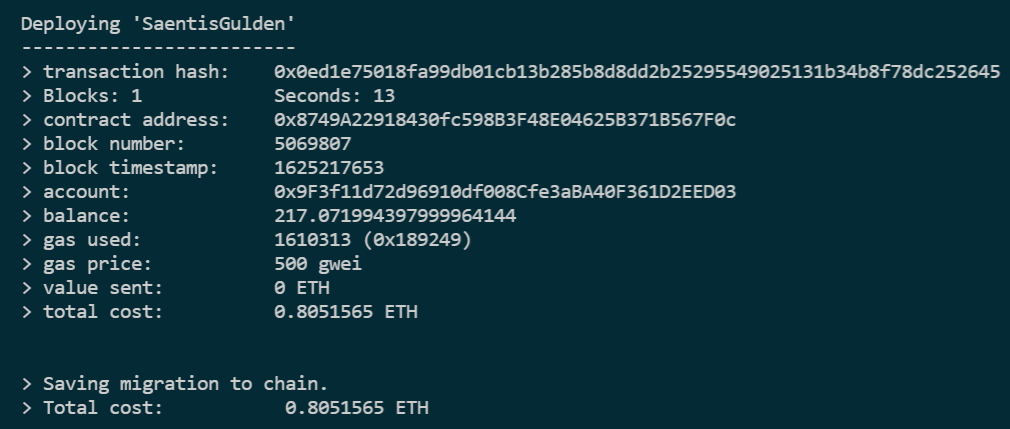
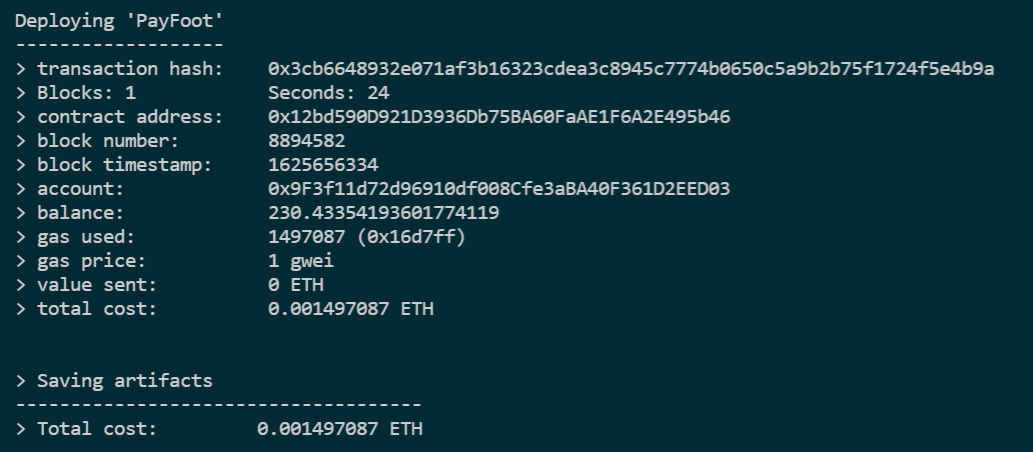
First testnet deployment done

Changed region(s): [[0.0, 0.0303, 1.0, 0.7576], [0.0, 0.8182, 0.4297, 0.9697]]

diff --git a/scripts/sign-data.js b/scripts/sign-data.js
@@ -6,7 +6,7 @@ let Web3 = require('web3'); // Add the web3 node package
 let ethUtil = require('ethereumjs-util'); // 'ethereumjs-util' is a collection of utility functions for Ethereum
 let sigUtil  = require('eth-sig-util'); // 'eth-sig-util' is a small collection of Ethereum signing functions
 const config = require('./data-config.json'); // Include the network-specific configurations
-const contractAbi = require('./ABI/SaentisGulden.json'); // Import the contract ABI of the smart contract
+const contractAbi = require('./ABI/PayFoot.json'); // Import the contract ABI of the smart contract
 const BigNumber = require('bignumber.js'); // Add the bignumber.js node package
 const { EIP712Domain } = require('./helper.js'); // Add some helpers
 

diff --git a/truffle-config.js b/truffle-config.js
@@ -35,6 +35,10 @@ module.exports = {
       provider: () => new HDWalletProvider({mnemonic: {phrase: seedPhrase}, providerOrUrl: `${config.swissdlt.url}/`}),
       network_id: config.swissdlt.network_id,
     },
+    payfoot: {
+      provider: () => new HDWalletProvider({mnemonic: {phrase: seedPhrase}, providerOrUrl: `${config.payfoot.url}`}),
+      network_id: config.payfoot.network_id,
+    },
   },
 
   // Configure our compilers

diff --git a/migrations/1_initial_migration.js b/migrations/1_initial_migration.js
@@ -1,4 +1,4 @@
-const Migrations = artifacts.require("Migrations");
+const Migrations = artifacts.require('Migrations');
 
 module.exports = function (deployer) {
   deployer.deploy(Migrations);

diff --git a/migrations/2_deploy_contracts.js b/migrations/2_deploy_contracts.js
@@ -1,0 +1,5 @@
+const PayFoot = artifacts.require('PayFoot');
+
+module.exports = function (deployer) {
+  deployer.deploy(PayFoot);
+};

diff --git a/CHANGELOG.md b/CHANGELOG.md
@@ -1,94 +1,6 @@
 # Changelog
 
-## 06-07-2021
+## 07-07-2021
 
 ### Added
-- Added [ESLint](https://eslint.org) to the project using [OpenZeppelin](https://github.com/OpenZeppelin/openzeppelin-contracts/blob/master/.eslintrc)'s configurations;
-- Added [Solhint](https://protofire.github.io/solhint) to the project using [OpenZeppelin](https://github.com/OpenZeppelin/openzeppelin-contracts/blob/master/.solhint.json)'s configurations;
-
-### Changed
-- The double quotation marks `""` in all JavaScript scripts have been changed to single quotation marks `''` for general consistency;
-
-## 02-07-2021
-
-### Added
-- Updated README with a section on unit tests;
-- Added `helper.js` file in the context of the refactoring of `sign-data.js`;
-- Unit tests for `ERC20Permit` are now available under `draft-ERC20Permit.test.js`. You can run the tests with `npx hardhat test`;
-- The following contracts have been deployed across all the major test networks:
-  - **Rinkeby:** [0x0f64069aC10c5Bcc3396b26C892A36D22CdCf5A6](https://rinkeby.etherscan.io/address/0x0f64069aC10c5Bcc3396b26C892A36D22CdCf5A6)
-  - **Ropsten:** [0x9b8D4cae1277a1FB56Af4C502A28B75C935f4ff3](https://ropsten.etherscan.io/address/0x9b8D4cae1277a1FB56Af4C502A28B75C935f4ff3)
-  - **Kovan:** [0x95Ae9Af89643a60DE620727CEd783FAF609832d6](https://kovan.etherscan.io/address/0x95Ae9Af89643a60DE620727CEd783FAF609832d6)
-  - **Goerli:** [0x8749A22918430fc598B3F48E04625B371B567F0c](https://goerli.etherscan.io/address/0x8749A22918430fc598B3F48E04625B371B567F0c)
-
-### Changed
-- Updated `package.json` file with version number `2.0.0` as well as included the hardhat dependencies;
-- Refactored `sign-data.js` file;
-
-### Fixed
-- Fixed wrong name and type problem for `version` in `data-config.json`;
-
-## 01-07-2021
-
-### Added
-- Updated README with information about the new `permit` method as well as implemented a new version structure with respect to the deployments;
-- Deployed Säntis Gulden contract `v2.0` to Rinkeby with the contract address [0x0f64069aC10c5Bcc3396b26C892A36D22CdCf5A6](https://rinkeby.etherscan.io/address/0x0f64069aC10c5Bcc3396b26C892A36D22CdCf5A6);
-- Added ABI version 2 (with `permit` functionality) as snippet [here](https://gitlab.appswithlove.net/saentis-gulden/saentis-gulden-token-contract/-/snippets/13);
-- Added `sign-data.js` file in order to generate the required function data used by the new `permit` method;
-
-### Changed
-- Updated Solidity compiler version in `truffle-config.js` to `0.8.6`;
-- Updated `package.json` file with URL reference to where to file a new issue;
-- Removed `SaentisGulden_flat.sol` file from repository;
-
-### Fixed
-- Fixed some formatting in the README;
-
-## 08-05-2021
-
-### Added
-The smart contract `SaentisGulden.sol` has been deployed to production with [Remix](http://remix.ethereum.org) and signed with the Säntis Gulden hardware wallet ([Ledger Nano S](https://shop.ledger.com/products/ledger-nano-s)):
-- [SwissDLT Block Explorer](https://swissdlt.appswithlove.net)
-- Contract creation transaction hash: [0x857f538e8476cebc7d5b22863c30494e713bf05cb09aac005d69fdff79e606cd](https://swissdlt.appswithlove.net/tx/0x857f538e8476cebc7d5b22863c30494e713bf05cb09aac005d69fdff79e606cd)
-- Contract address: [0x263dc7587abe19595f7d7db378ee7ac2a773cf69](https://swissdlt.appswithlove.net/address/0x263dc7587abe19595f7d7db378ee7ac2a773cf69)
-- Contract admin: [0x7de729bc151084c3f455dbc03e7842919565d23e](https://swissdlt.appswithlove.net/address/0x7de729bc151084c3f455dbc03e7842919565d23e)
-
-### Changed
-- Updated README with additional block explorer links to the contract address & contract admin address;
-- Updated `package-lock.json` file;
-
-## 30-04-2021
-
-### Changed
-- The contract symbol was changed from `SDG` to `SGD`;
-- Deployed the updated contract to the major test networks (Rinkeby, Ropsten, Kovan and Goerli). Due that I updated the README.md (paragraph Test Deployments) with the new contract addresses;
-- Corrected a typo in the README;
-
-## 25-04-2021
-
-### Added
-The following contracts have been deployed across all the major test networks:
-- **Rinkeby:** [0xc3F76Ab84f9493B6cd1f8E6E9d24C69F295395Ae](https://rinkeby.etherscan.io/address/0xc3f76ab84f9493b6cd1f8e6e9d24c69f295395ae)
-- **Ropsten:** [0x8327931af8ADF326cC1bD1cAb5720A8c9606990c](https://ropsten.etherscan.io/address/0x8327931af8adf326cc1bd1cab5720a8c9606990c)
-- **Kovan:** [0xA2869D16B6187DEB70DCfA1A2c6149ADa6D10d3C](https://kovan.etherscan.io/address/0xa2869d16b6187deb70dcfa1a2c6149ada6d10d3c)
-- **Goerli:** [0xeB741f8826a3B516C80cA3aD3A5Da3a56B972FA4](https://goerli.etherscan.io/address/0xeb741f8826a3b516c80ca3ad3a5da3a56b972fa4)
-
-Furthermore, the following additions have been implemented:
-- Added `1_initial_migration.js` file to the migrations folder;
-- Refactored the `truffle-config.js` file with a general dependency on the newly added file `network-config.json`, where all major test networks are defined as well as the Swiss DLT chain;
-
-### Changed
-- In the `package.json` I added a couple of new keywords as well as downgraded the `@truffle/hdwallet-provider` to version `1.2.3` due to a recent and still existing bug in the latest Truffle release (see [here](https://stackoverflow.com/questions/66735307/truffle-contract-deployment-failed-invalid-sender));
-- The smart contract `SaentisGulden.sol` does not anymore support the extension `ERC20Snapshot` since this is not required in our use case;
-- The smart contract `SaentisGulden.sol` does now include a `premint` functionality in the constructor that creates an initial amount of 100'000 tokens for the deployer (no need anymore to separately call `mint` after the deployment);
-- In addition to some small wording fixes, the README has been updated with the information regarding the test deployments;
-- Removed `package-lock.json` from `.gitignore` since npm itself recommends committing the `package-lock.json` file. See [here](https://docs.npmjs.com/cli/v7/configuring-npm/package-lock-json);
-
-### Fixed
-- Changed naming from `SantisGulden` to `SaentisGulden`;
-- `build` folder is now part of the `.gitignore`. I implemented the recommended OpenZeppelin `.gitignore` available [here](https://github.com/OpenZeppelin/openzeppelin-contracts/blob/master/.gitignore);
-
-## 23-04-2021
-
-### Added
-- Deployed Säntis Gulden contract `v1.0` to Rinkeby with the contract address [0x10c35227901F2D1D19067E7c5798CF745e360dBc](https://rinkeby.etherscan.io/address/0x10c35227901f2d1d19067e7c5798cf745e360dbc);
+- Fully-fledged smart contract repository, inspired by Säntis Gulden's repository available [here](https://gitlab.appswithlove.net/saentis-gulden/saentis-gulden-token-contract);

diff --git a/README.md b/README.md
@@ -109,28 +109,13 @@ Go to the corresponding Etherscan link, e.g. https://rinkeby.etherscan.io/addres
 
 ## Test Deployments
 The smart contract [`SaentisGulden.sol`](https://gitlab.appswithlove.net/saentis-gulden/saentis-gulden-token-contract/-/blob/main/contracts/SaentisGulden.sol) has been deployed across all the major test networks:
-### Version 1 (Without `permit` Functionality)
-- **Rinkeby:** [0x9C61c3Cf3159aaDd6E432886ad333d6Da1D79Ab3](https://rinkeby.etherscan.io/address/0x9C61c3Cf3159aaDd6E432886ad333d6Da1D79Ab3)
-- **Ropsten:** [0x10c35227901F2D1D19067E7c5798CF745e360dBc](https://ropsten.etherscan.io/address/0x10c35227901F2D1D19067E7c5798CF745e360dBc)
-- **Kovan:** [0xE9A36ba0a07afDd1C6169Ae4e4E065E1095Cb6bE](https://kovan.etherscan.io/address/0xE9A36ba0a07afDd1C6169Ae4e4E065E1095Cb6bE)
-- **Goerli:** [0xE9A36ba0a07afDd1C6169Ae4e4E065E1095Cb6bE](https://goerli.etherscan.io/address/0xE9A36ba0a07afDd1C6169Ae4e4E065E1095Cb6bE)
+- **Rinkeby:** [0x12bd590D921D3936Db75BA60FaAE1F6A2E495b46](https://rinkeby.etherscan.io/address/0x12bd590d921d3936db75ba60faae1f6a2e495b46)
+- **Ropsten:** [TBD](TBD)
+- **Kovan:** [TBD](TBD)
+- **Goerli:** [TBD](TBD)
 
-### Version 2 (With `permit` Functionality)
-- **Rinkeby:** [0x0f64069aC10c5Bcc3396b26C892A36D22CdCf5A6](https://rinkeby.etherscan.io/address/0x0f64069aC10c5Bcc3396b26C892A36D22CdCf5A6)
-- **Ropsten:** [0x9b8D4cae1277a1FB56Af4C502A28B75C935f4ff3](https://ropsten.etherscan.io/address/0x9b8D4cae1277a1FB56Af4C502A28B75C935f4ff3)
-- **Kovan:** [0x95Ae9Af89643a60DE620727CEd783FAF609832d6](https://kovan.etherscan.io/address/0x95Ae9Af89643a60DE620727CEd783FAF609832d6)
-- **Goerli:** [0x8749A22918430fc598B3F48E04625B371B567F0c](https://goerli.etherscan.io/address/0x8749A22918430fc598B3F48E04625B371B567F0c)
-
-## Production Deployments on SwissDLT
+## Production Deployments on PayFoot
 The smart contract [`SaentisGulden.sol`](https://gitlab.appswithlove.net/saentis-gulden/saentis-gulden-token-contract/-/blob/main/contracts/SaentisGulden.sol) has been deployed to the SwissDLT network with [Remix<sup>*</sup> ](http://remix.ethereum.org) and signed with the Säntis Gulden hardware wallet (Ledger Nano S):
-### Version 1 (Without `permit` Functionality)
-- [SwissDLT Block Explorer](https://swissdlt.appswithlove.net)
-- Contract creation transaction hash: [0x857f538e8476cebc7d5b22863c30494e713bf05cb09aac005d69fdff79e606cd](https://swissdlt.appswithlove.net/tx/0x857f538e8476cebc7d5b22863c30494e713bf05cb09aac005d69fdff79e606cd)
-- **Contract address:** [0x263DC7587aBE19595f7d7db378EE7aC2A773CF69](https://swissdlt.appswithlove.net/address/0x263DC7587aBE19595f7d7db378EE7aC2A773CF69)
-- **Contract admin:** [0x7de729bc151084C3F455Dbc03E7842919565D23e](https://swissdlt.appswithlove.net/address/0x7de729bc151084C3F455Dbc03E7842919565D23e)
-- Contract Application Binary Interface (ABI): Can be downloaded from the [snippet](https://gitlab.appswithlove.net/saentis-gulden/saentis-gulden-token-contract/-/snippets/12). This file was copied from Remix after compilation.
-
-### Version 2 (With `permit` Functionality)
 - [SwissDLT Block Explorer](https://swissdlt.appswithlove.net)
 - Contract creation transaction hash: TBD
 - **Contract address:** TBD
@@ -141,18 +126,11 @@ The smart contract [`SaentisGulden.sol`](https://gitlab.appswithlove.net/saentis
 > **Note 2:** Remix uses checksummed addresses for the `At Address` button and if it's invalid the button is disabled. Always use checksummed addresses with Remix! One way to handle this is by using [EthSum](https://ethsum.netlify.app). The checksum algorithm is laid out in full detail [here](https://github.com/ethereum/EIPs/blob/master/EIPS/eip-55.md). 
 
 <sup>*</sup> Remix deployment configuration:
-- **Version 1 (Without `permit` Functionality)**
-  - Compiler: `0.8.0+commit.c7dfd78e`;
-  - Language: `Solidity`;
-  - EVM Version: `compiler default`;
-  - Enable optimization: `200`;
-  - Only the smart contract [`SaentisGulden.sol`](https://gitlab.appswithlove.net/saentis-gulden/saentis-gulden-token-contract/-/blob/main/contracts/SaentisGulden.sol) was used for compilation and deployment. Remix imported the dependencies successfully (see [here](https://remix-ide.readthedocs.io/en/latest/import.html) how this works in the background with the `.deps` folder);
-- **Version 2 (With `permit` Functionality)**
-  - Compiler: `0.8.6+commit.11564f7e`;
-  - Language: `Solidity`;
-  - EVM Version: `compiler default`;
-  - Enable optimization: `200`;
-  - Only the smart contract [`SaentisGulden.sol`](https://gitlab.appswithlove.net/saentis-gulden/saentis-gulden-token-contract/-/blob/main/contracts/SaentisGulden.sol) was used for compilation and deployment. Remix imported the dependencies successfully (see [here](https://remix-ide.readthedocs.io/en/latest/import.html) how this works in the background with the `.deps` folder);
+- Compiler: `0.8.0+commit.c7dfd78e`;
+- Language: `Solidity`;
+- EVM Version: `compiler default`;
+- Enable optimization: `200`;
+- Only the smart contract [`SaentisGulden.sol`](https://gitlab.appswithlove.net/saentis-gulden/saentis-gulden-token-contract/-/blob/main/contracts/SaentisGulden.sol) was used for compilation and deployment. Remix imported the dependencies successfully (see [here](https://remix-ide.readthedocs.io/en/latest/import.html) how this works in the background with the `.deps` folder);
 
 ## Further References
 [1] https://docs.openzeppelin.com/contracts/4.x/erc20
